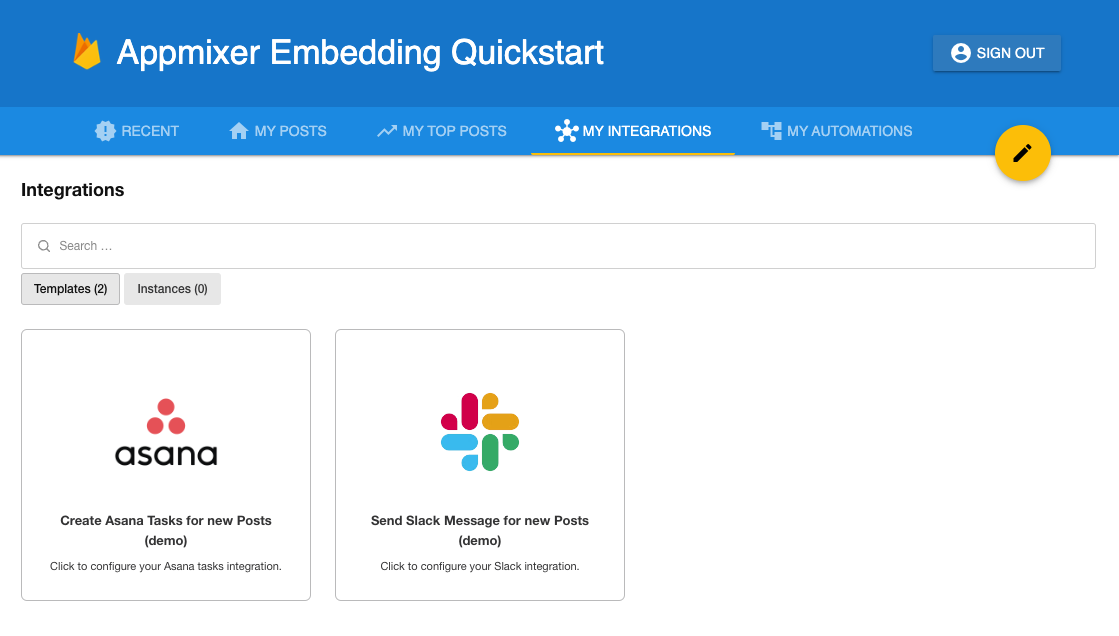
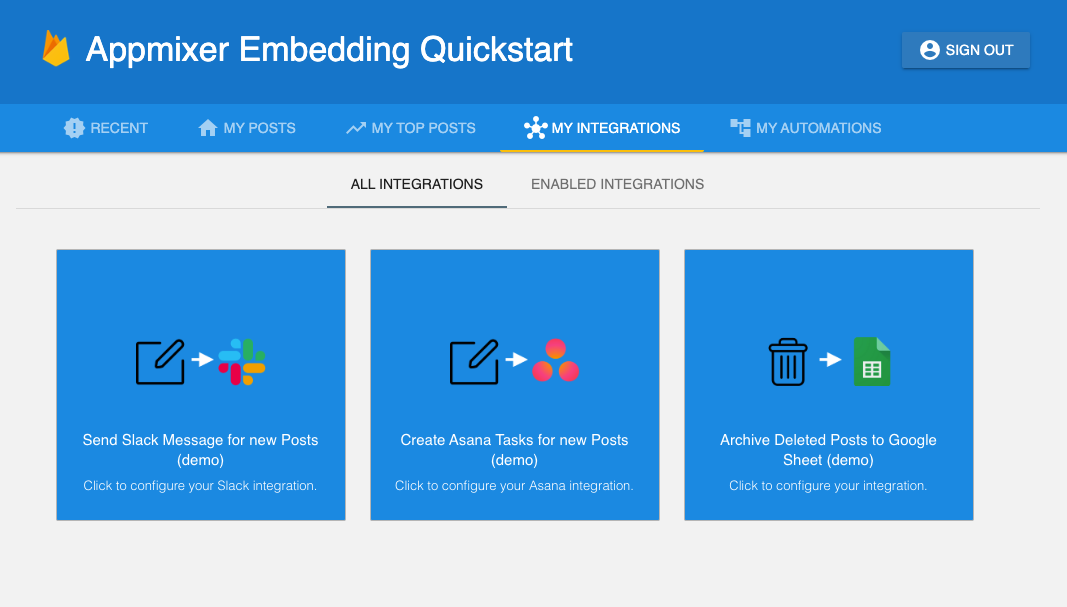
update readme

diff --git a/scripts/main.js b/scripts/main.js
@@ -51,8 +51,8 @@ var APPMIXER_USER_DOMAIN = 'appmixer-demo-firebase-vanilla.com';
 var APPMIXER_BASE_URL = 'https://api.qa.appmixer.com';
 var appmixer = new Appmixer({ baseUrl: APPMIXER_BASE_URL });
 
-// See https://docs.appmixer.com/appmixer/customizing-ui/custom-theme.
-try {
+// See https://docs.appmixer.com/appmixer/customizing-ui/custom-theme
+// and https://github.com/clientIO/appmixer-fe/blob/dev/appmixer/sdk/src/assets/data/themes/light.js.
 appmixer.set('theme', {
     variables: {
         font: {
@@ -61,13 +61,12 @@ appmixer.set('theme', {
             weightRegular: 300,
             weightMedium: 400,
             weightSemibold: 500,
-            size: 16
+            size: 14
         },
         colors: {
             base: '#FFFFFF',
             neutral: '#000000',
             focus: '#039be5',
-            //focus: '#ffca28',
             error: '#DE3123',
             warning: '#B56C09',
             success: '#00b74a',
@@ -98,16 +97,91 @@ appmixer.set('theme', {
                 background: '#ffca28',
                 color: 'black'
             }
+        },
+        shapes: {
+            action: 'action',
+            trigger: 'trigger',
+            selection: 'selection'
+        },
+        '#Wizard': {
+            '#modal': {
+                '#backdrop': {
+                    background: 'rgba(0 0 0 / 70%)'
+                }
+            }
+        },
+        '#Integrations': {
+            background: '#f5f5f5',
+            '#integration': {
+                background: '#039be5',
+                color: 'white',
+                borderRadius: '2px',
+                '@hovered': {
+                    background: '#b3d4fc'
+                },
+                '#title': {
+                    color: 'white',
+                    fontSize: '{{variables.font.size15}}'
+                },
+                '#description': {
+                    color: 'white'
+                },
+                '#buttonRemove': {
+                    color: '#FCBE08'
+                }
+            }
+        },
+        '#FlowManager': {
+            background: '#f5f5f5',
+            '#buttonFlowStage': {
+                '#on': {
+                    border: 'white',
+                    background: '#FCBE08'
+                }
+            },
+            '#header': {
+                '#buttonCreateFlow': {
+                    background: '#ffca28',
+                    color: 'black',
+                    '@hovered': {
+                        background: '#ffca28',
+                        color: 'black'
+                    },
+                    '@disabled': {
+                        background: '#ffca28',
+                        color: 'black'
+                    }
+                }
+            },
+            '#grid': {
+                '#flow': {
+                    background: '#039be5',
+                    borderRadius: '2px',
+                    '@hovered': {
+                        background: '#b3d4fc'
+                    },
+                    '@disabled': {
+                        background: '{{variables.colors.neutral04}}'
+                    },
+                    '#name': {
+                        color: 'white'
+                    },
+                    '#thumbnail': {
+                        background: 'transparent'
+                    }
+                }
+            }
         }
     }
 });
-} catch (err) {}    
 // See https://my.appmixer.com/appmixer/package/strings-en.json.
 appmixer.set('strings', {
-    flowManager: {
-        header: {
-            title: 'Your Flows',
-            buttonCreateFlow: 'Create New Flow'
+    ui: {
+        flowManager: {
+            header: {
+                title: 'Your Flows',
+                buttonCreateFlow: 'Create New Flow'
+            }
         }
     }
 });
@@ -632,40 +706,7 @@ function closeAppmixerWidgets() {
     });
 }
 
-async function showIntegrations() {
-    // See https://github.com/clientIO/appmixer-fe/blob/dev/appmixer/sdk/src/assets/data/themes/light.js.
-    const integrationsTheme = {
-        ui: {
-            '#Integrations': {
-                background: '#f5f5f5',
-                '#integration': {
-                    background: '#039be5',
-                    color: 'white',
-                    '@hovered': {
-                        background: '#b3d4fc'
-                    },
-                    '#title': {
-                        color: 'white',
-                        fontSize: '{{variables.font.size15}}'
-                    },
-                    '#description': {
-                        color: 'white'
-                    },
-                    '#buttonRemove': {
-                        color: '#FCBE08'
-                    }
-                }
-            },
-            '#FlowManager': {
-                '#buttonFlowStage': {
-                    '#on': {
-                        border: 'white',
-                        background: '#FCBE08'
-                    }
-                }
-            }
-        }
-    };
+function showIntegrations() {
     appmixerWidgets.integrationTemplates = appmixerWidgets.integrationTemplates || appmixer.ui.Integrations({
         el: '#appmixer-integration-templates',
         options: {
@@ -674,8 +715,7 @@ async function showIntegrations() {
                 'sharedWith.0.domain': APPMIXER_USER_DOMAIN,     // Show only integration templates shared with users in this demo app.
                 'templateId': '!'       // Show Integration templates only. Template don't have `templateId`, only instances do to reference templates they were created from.
             }
-        },
-        theme: integrationsTheme
+        }
     });
     appmixerWidgets.integrationInstances = appmixerWidgets.integrationInstances || appmixer.ui.Integrations({
         el: '#appmixer-integration-instances',
@@ -685,22 +725,9 @@ async function showIntegrations() {
                 userId: appmixer.get('user').id,        // Show only my instances. Not all flows that have been possibly shared with me in the Studio.
                 'templateId': '>0'      // Show Integration instances only. Instances have `templateId` to reference the template they were created from.
             }
-        },
-        theme: integrationsTheme
-    });
-    appmixerWidgets.wizard = appmixerWidgets.wizard || appmixer.ui.Wizard({
-        theme: {
-            ui: {
-                '#Wizard': {
-                    '#modal': {
-                        '#backdrop': {
-                            background: 'rgba(0 0 0 / 70%)'
-                        }
-                    }
-                }
-            }
         }
     });
+    appmixerWidgets.wizard = appmixerWidgets.wizard || appmixer.ui.Wizard();
     // Make sure our list of integration instances is refreshed when integration is started or removed.
     // Note that we're using start-after and remove-after events. This is because by default, the wizard
     // does all the API calls to start or remove flows for us. It is also possible to redefine these events start/remove
@@ -710,7 +737,7 @@ async function showIntegrations() {
         appmixerWidgets.integrationInstances.reload();
         appmixerWidgets.wizard.close();
     });
-    appmixerWidgets.integrationTemplates.on('integration:create', async (templateId) => {
+    appmixerWidgets.integrationTemplates.on('integration:create', (templateId) => {
         appmixerWidgets.wizard.close();
         appmixerWidgets.wizard.set('flowId', templateId);
         appmixerWidgets.wizard.open();
@@ -735,44 +762,6 @@ async function showFlows() {
             customFilter: {
                 userId: appmixer.get('user').id, // Show only my flows.
                 'wizard.fields': '!'     // Filter out integration templates (i.e. flows that have a Wizard defined).
-            }
-        },
-        theme: {
-            ui: {
-                '#FlowManager': {
-                    background: '#f5f5f5',
-                    '#header': {
-                        '#buttonCreateFlow': {
-                            background: '#ffca28',
-                            color: 'black',
-                            '@hovered': {
-                                background: '#ffca28',
-                                color: 'black'
-                            },
-                            '@disabled': {
-                                background: '#ffca28',
-                                color: 'black'
-                            }
-                        }
-                    },
-                    '#grid': {
-                        '#flow': {
-                            background: '#039be5',
-                            '@hovered': {
-                                background: '#b3d4fc'
-                            },
-                            '@disabled': {
-                                background: '{{variables.colors.neutral04}}'
-                            },
-                            '#name': {
-                                color: 'white'
-                            },
-                            '#thumbnail': {
-                                background: 'transparent'
-                            }
-                        }
-                    }
-                }
             }
         }
     });

diff --git a/README.md b/README.md
@@ -13,7 +13,7 @@ The app shows the 3 most common use cases for Appmixer embedding:
 
 ## Integration templates
 
-Embed a marketplace of prebuilt integration templates. End user can select a template, fill in the last missing details and run an integration.
+Embed a marketplace of prebuilt integration templates. End user can select a template, fill in the required fields and run an integration.
 
 ![Integrations](assets/integration-marketplace.png?raw=true "Integration Marketplace")
 ![Wizard](assets/wizard.png?raw=true "Wizard")
@@ -30,8 +30,8 @@ Embed the full featured workflow designer UI allowing the end user to build cust
 # How to navigate this repository
 
 * `index.html`: Application HTML.
-* `scripts/main.js`: Application front-end JavaScript.
-* `functions/index.js`: REST API.
+* `scripts/main.js`: Application front-end JavaScript, containging the entire application FE code.
+* `functions/index.js`: REST API. Necessary for Appmixer connector.
 * `appmixer-components/`: Appmixer components working against the demo app REST API (defined in `functions/index.js`). See [Appmixer Component Basic Structure](https://docs.appmixer.com/appmixer/component-definition/basic-structure) and [Example Component](https://docs.appmixer.com/appmixer/component-definition/example-component) for more details.
 
 
@@ -41,21 +41,16 @@ Embed the full featured workflow designer UI allowing the end user to build cust
  2. Enable the **Google** sign-in provider in the **Authentication > SIGN-IN METHOD** tab.
  3. You must have the Firebase CLI installed. If you don't have it install it with `npm install -g firebase-tools` and then configure it with `firebase login`.
  4. On the command line run `firebase use --add` and select the Firebase project you have created.
- 5. On the command line run `firebase deploy` using the Firebase CLI tool to deploy your Firebase app to the cloud.
- 6. Configure the `baseUrl` (of this demo REST API endpoint) in your Appmixer Backoffice (https://backoffice.[YOUR_TENANT].appmixer.cloud).
+ 5. Replace the URLs to the Appmixer APIs with your own Appmixer tenant URLs. Replace `https://my.qa.appmixer.com/appmixer/appmixer.js` with `https://my.[YOUR_TENANT].appmixer.cloud/appmixer/appmixer.js` in `index.html` and `https://api.qa.appmixer.com` with `https://api.[YOUR_TENANT].appmixer.cloud` in `scripts/main.js` file.
+ 6. On the command line run `firebase deploy` using the Firebase CLI tool to deploy your Firebase app to the cloud.
+ 7. You must have the Appmixer CLI installed. If you don't have it install it with `npm install -g appmixer`. Then set your Appmixer engine base URL with `appmixer url https://api.[YOUR_TENANT].appmixer.cloud` and login with `appmixer login YOUR_ADMIN_USERNAME`.
+ 8. Publish Appmixer components with `appmixer pack appmixer-components/` followed by `appmixer publish appmixer.demofirebase.zip`.
+ 9. Configure the `baseUrl` (of this demo REST API endpoint) in your Appmixer Backoffice (`https://backoffice.[YOUR_TENANT].appmixer.cloud`).
     Go to **Services > Add** and add a new service with ID `appmixer:demofirebase`.
     Then create a key `baseUrl` and set it to the Firebase Cloud Functions endpoint (usually `https://us-central1-[FIREBASE_PROJECT].cloudfunctions.net`).
     This base URL is used throughout the Appmixer components (`appmixer-components/`).
 
 
-# Publish Appmixer components
-
-See [Appmixer CLI Documentation](https://docs.appmixer.com/appmixer/appmixer-cli/appmixer-cli) for more details.
-
-```
-$ appmixer pack appmixer-components
-$ appmixer publish appmixer.demofirebase.zip
-```
 
 # License
 
@@ -64,4 +59,4 @@ Original Firebase database demo (https://github.com/firebase/quickstart-js/tree/
 
 © Google, 2016. Licensed under an [Apache-2](../LICENSE) license.
 
-Modifications copyright (C) 2022 client IO s.r.o.
+Modifications copyright (C) 2023 client IO s.r.o.
